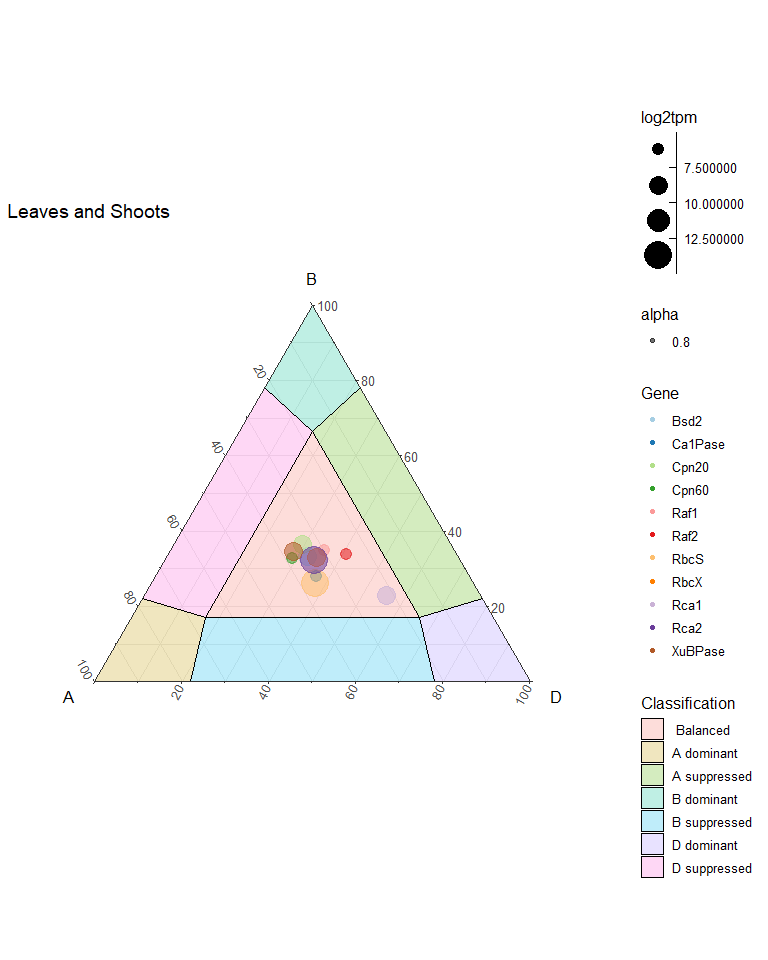
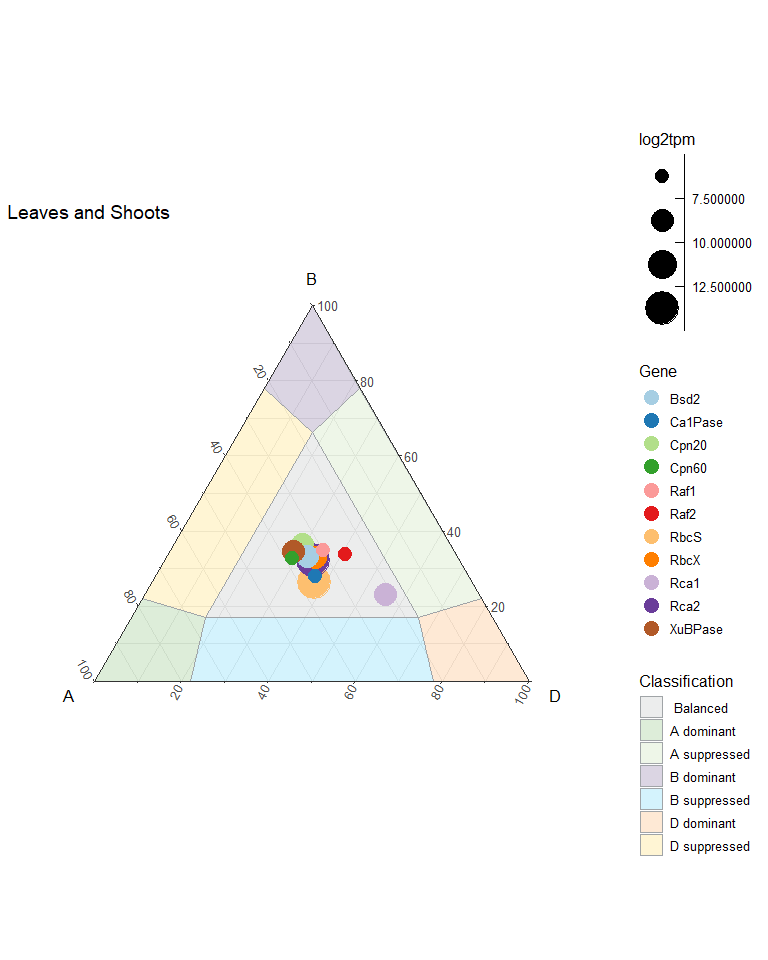
Completed Leaves and Shoots Figure

diff --git a/Wheat-Rubiscosome-Expression-Balance-Report.md b/Wheat-Rubiscosome-Expression-Balance-Report.md
@@ -380,19 +380,23 @@ base
 ![](Wheat-Rubiscosome-Expression-Balance-Report_files/figure-gfm/unnamed-chunk-9-1.png)<!-- -->
 
 ``` r
-base2 <- ggtern(data=df,aes(A_tpm,B_tpm,D_tpm)) +
-  geom_polygon(aes(fill=Label,group=Label),color="black",alpha=0.25) +
-  geom_point(data=Rubiscosome_mean_leaf,
+LeavesShoots <- ggtern(data=df,aes(A_tpm,B_tpm,D_tpm)) +
+  geom_polygon(aes(fill=Label,group=Label),color="#A0A4A7",alpha=0.20) +
+   scale_fill_manual(values=c("#A0A4A7", "#57A343", "#A8D38C", "#4B2B75",
+                              "#27C4F4", "#F9932F", "#FECF29" )) +
+  geom_point(data=Rubiscosome_mean_leaf%>%
+               arrange(desc(log2tpm)),
              aes(A_tpm,B_tpm,D_tpm, 
                  color=Gene,
-                 size=log2tpm,
-                 alpha=0.8)) + 
-  scale_size_binned(range = c(1, 10),
+                 size=log2tpm)) + 
+  scale_size_binned(range = c(1, 15),
                     breaks = c(7.5, 10, 12.5)) +
   scale_color_manual(values=c("#a6cee3", "#1f78b4", "#b2df8a", "#33a02c",
                               "#fb9a99", "#e31a1c", "#fdbf6f", "#ff7f00",
                               "#cab2d6", "#6a3d9a", "#b15928" )) +
   theme_bw() +
+  guides(colour = guide_legend(override.aes = list(size=5))) +
+  theme(plot.title = element_text(size = 30))+
   labs(title="Leaves and Shoots",
        fill = "Classification",
        T="B",
@@ -403,7 +407,7 @@ base2 <- ggtern(data=df,aes(A_tpm,B_tpm,D_tpm)) +
     ## Warning: Ignoring unknown aesthetics: z
 
 ``` r
-base2
+LeavesShoots
 ```
 
-![](Wheat-Rubiscosome-Expression-Balance-Report_files/figure-gfm/unnamed-chunk-10-1.png)<!-- -->
+![](Wheat-Rubiscosome-Expression-Balance-Report_files/figure-gfm/Leaves%20and%20Shoots-1.png)<!-- -->
